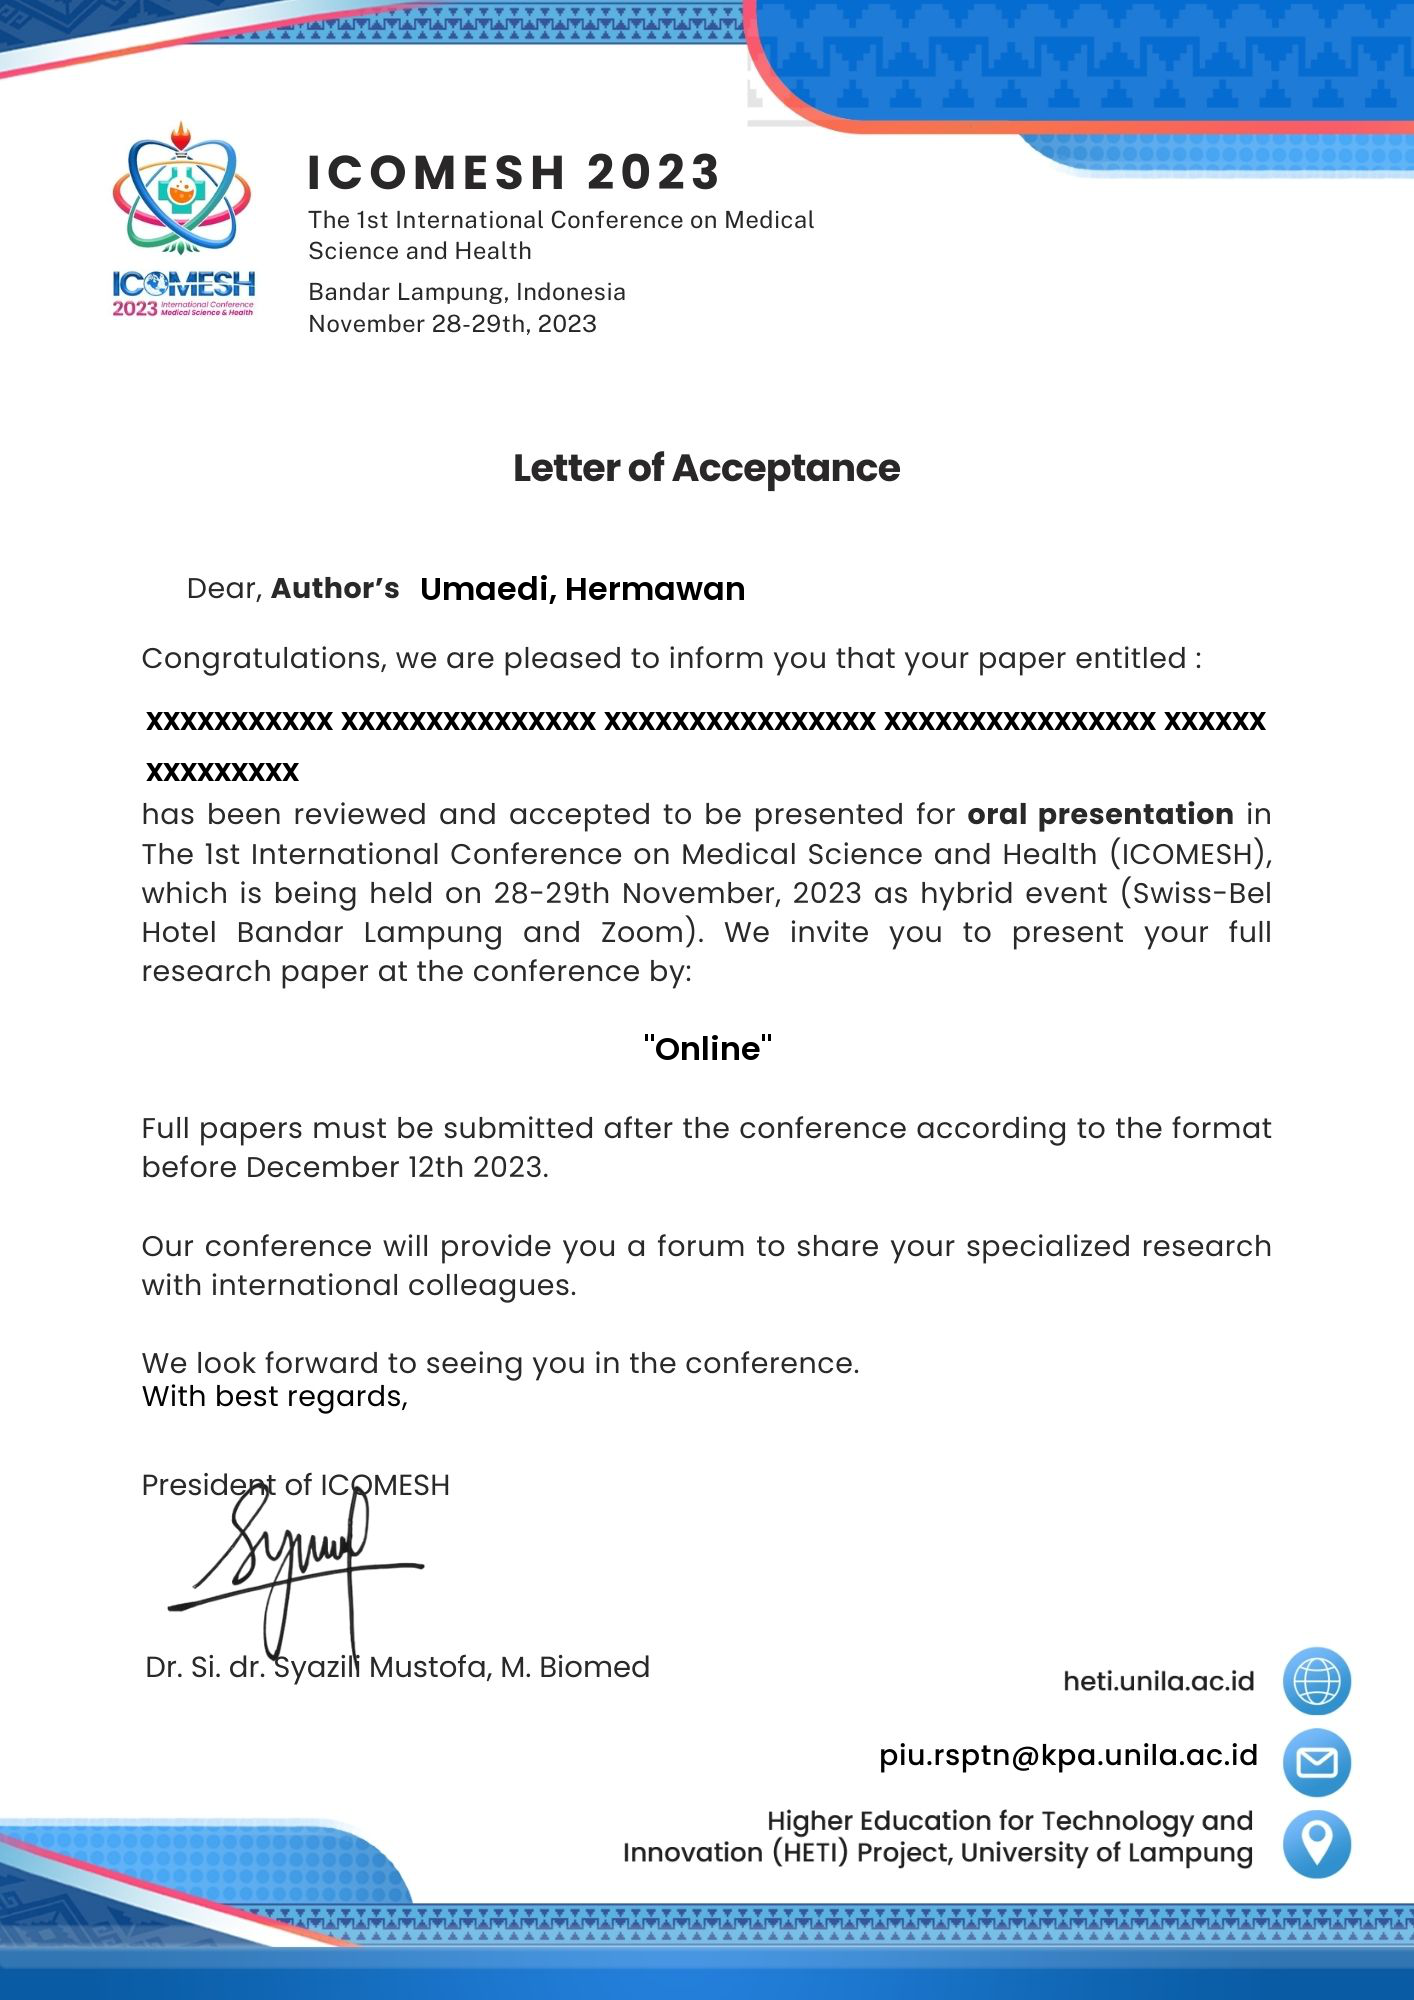
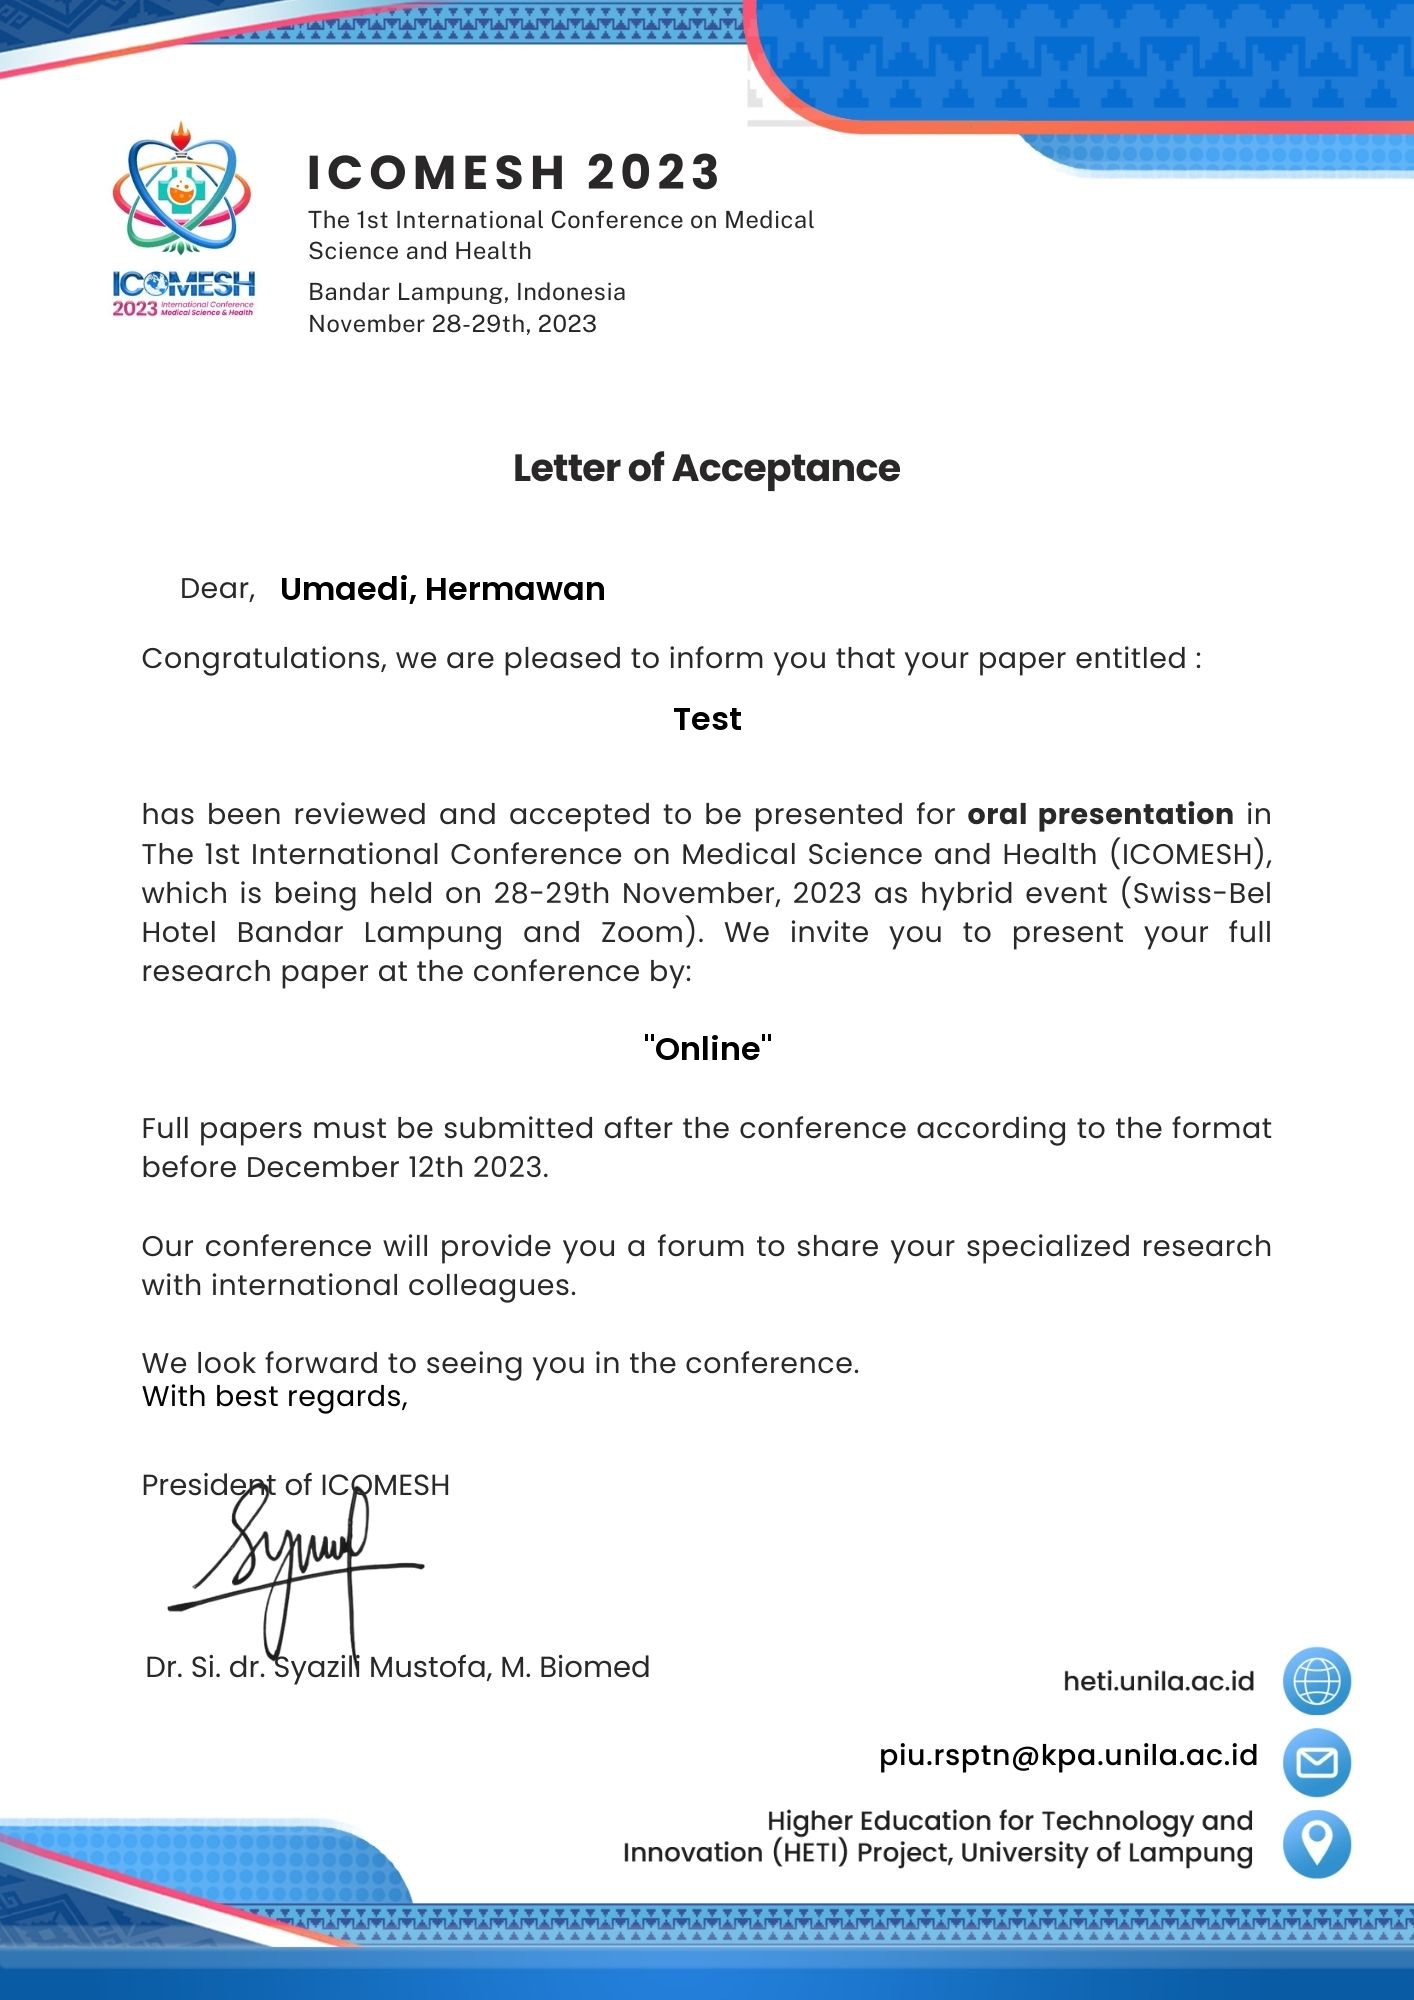
devkh

Changed region(s): [[0.0934, 0.341, 0.9024, 0.403], [0.1245, 0.279, 0.529, 0.31]]

diff --git a/app/Http/Controllers/User/LoaController.php b/app/Http/Controllers/User/LoaController.php
@@ -37,7 +37,7 @@ class LoaController extends Controller
 
         $margin = '1514';
         // The text to be centered
-        $title = 'xxxxxxxxxxx xxxxxxxxxxxxxxx xxxxxxxxxxxxxxxx xxxxxxxxxxxxxxxx xxxxxx xxxxxxxxx';
+        $title = $submission->title;
 
         // Periksa apakah lebar teks melebihi batas kertas
         if ($title > $margin) {
@@ -65,7 +65,7 @@ class LoaController extends Controller
         imagettftext($image, $fontSize, 0, $presensi_of_image, 1060, $textColor, $fontPath, $presensi);
 
         $authors = $submission->author;
-        imagettftext($image, 24, 0, 420, 600, $textColor, $fontPath, $authors);
+        imagettftext($image, 24, 0, 280, 600, $textColor, $fontPath, $authors);
 
         // Set the content type header and output the image
         header("Content-type: image/png");
